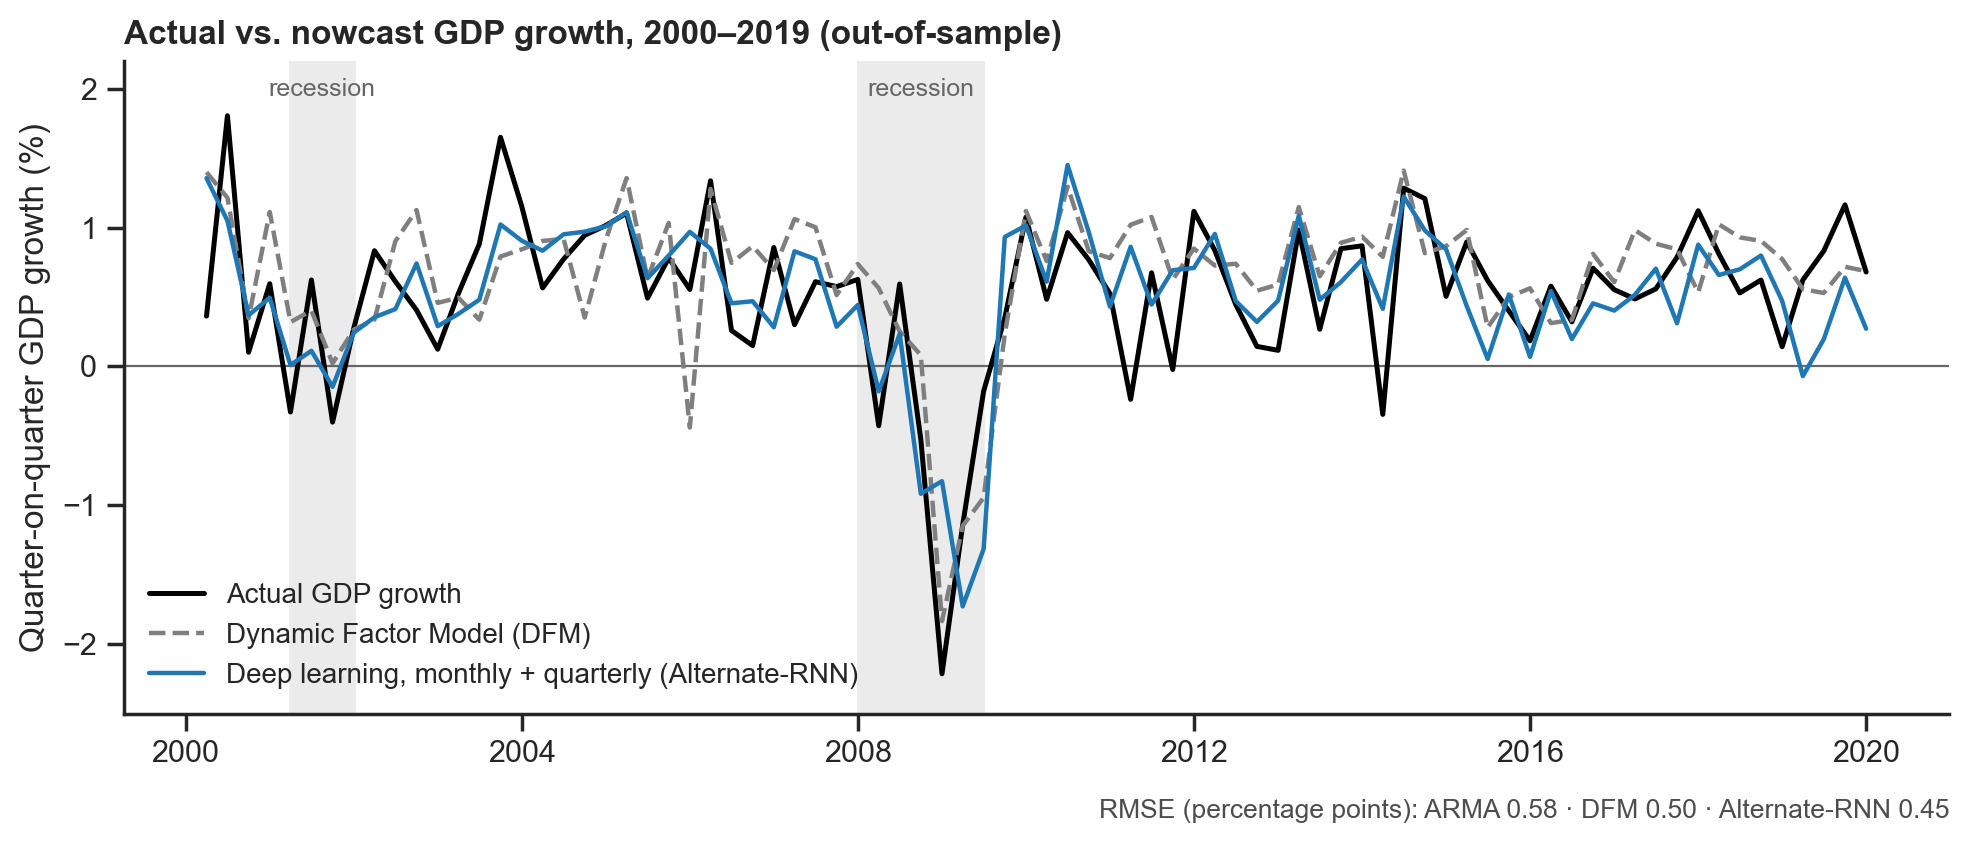
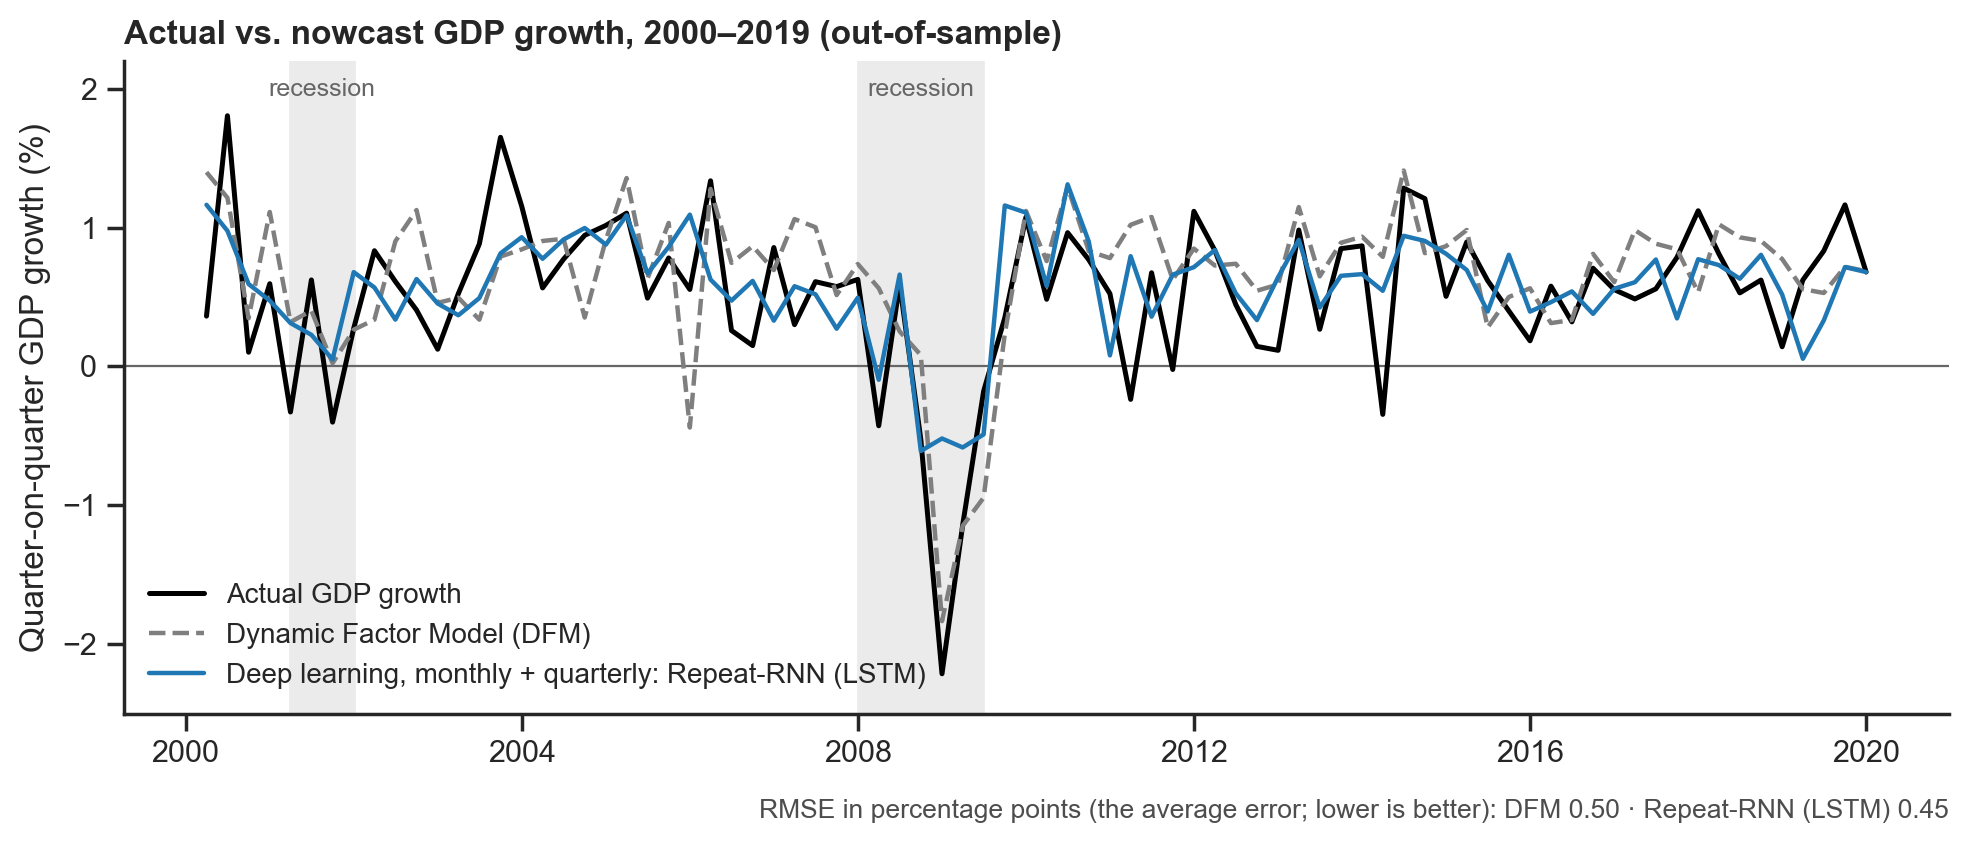
Thesis page: result 1 vs the DFM with the best 2000-2019 network, data slide wording, RMSE explained

diff --git a/en/projects/master-thesis-gdp-nowcasting.md b/en/projects/master-thesis-gdp-nowcasting.md
@@ -11,7 +11,7 @@ image: /assets/img/projects/scriptie_rmse_vergelijking_en.png
 abstract: "Gross Domestic Product (GDP) is published quarterly and with a delay. Monthly figures such as unemployment and inflation arrive much sooner. To improve the predictive power of neural networks, I built a new mixed-frequency model that integrates monthly figures to predict GDP growth of the current quarter before it ends. From 2000 to 2019 the Root Mean Squared Error (RMSE) of my best deep learning model is about 10% lower than that of a DFM: the type of model central banks use, which I applied in a simple form to the same data."
 # eerder: abstract_image: /assets/img/projects/scriptie_concept_en.svg  (concept-figuur, bestand blijft bewaard)
 abstract_image: /assets/img/projects/thesis_mpl_actual_vs_nowcast.png
-abstract_alt: "Line chart of actual and nowcast GDP growth per quarter, 2000–2019, for the DFM and Alternate-RNN; RMSE: ARMA 0.58, DFM 0.50, Alternate-RNN 0.45 percentage points"
+abstract_alt: "Line chart of actual and nowcast GDP growth per quarter, 2000–2019, for the DFM and Repeat-RNN (LSTM); RMSE (lower is better): DFM 0.50, Repeat-RNN (LSTM) 0.45 percentage points"
 course: MSc Data Science and Society, Tilburg University
 team: Individual research
 code: https://github.com/GKruidenier/GDP-nowcasting-thesis
@@ -26,9 +26,13 @@ tools: [Python, PyTorch, RNN, statsmodels, Dynamic Factor Models, ARMA]
 {% include slide.html kicker="Models" title="Three ways to combine month and quarter" text="Apart from ARMA, all models work with a selection of the same 238 monthly and quarterly indicators of the US economy (1960–2024). My networks (LSTM and GRU) have a memory and step through time. The difference is how monthly and quarterly figures come together." src="/assets/img/projects/scriptie_modellen_en.svg" alt="Six models. Benchmarks: the classic time-series model ARMA uses only the past of GDP, a simple version of the central banks' Dynamic Factor Model sums up the figures in a few trends, and a network on quarterly data averages the monthly figures first. My designs: repeat (one step per month, the quarterly figure is read along), two layers (a quarterly layer feeds a monthly layer) and alternate (quarterly and monthly network take turns with one shared memory)" full=true %}
 {% endcomment %}
 
-{% include slide.html kicker="Data" title="Many indicators, few observations" text="The dataset contains 238 US indicators: 121 monthly ones from FRED-MD and 117 quarterly ones from FRED-QD. GDP, however, is measured only once per quarter: 260 quarters from 1960 to 2024, of which 160 come before the first test year. With almost as many candidate features as observations, a model can learn the noise in the training data instead of real patterns (overfitting), and then predicts new quarters poorly. I therefore used Least Angle Regression (LARS) to keep the 10 to 20 most informative indicators, repeated on the training data each time the model is retrained. On the first training period (1960–1999), it mainly picked industrial production, capacity utilisation, employment and consumption (right-hand figure). The European Central Bank (ECB) nowcasting toolbox also recommends LARS ([Linzenich & Meunier, 2024](https://www.ecb.europa.eu/pub/pdf/scpwps/ecb.wp3004~3ce9d0d8ca.en.pdf)). The data exploration supports the mixed-frequency idea: as soon as monthly figures from the current quarter come in, they correlate more strongly with this quarter's GDP growth (left-hand figure: 0.35 with one month, against 0.19 with only the previous quarter's months)." src="/assets/img/projects/thesis_mpl_corr_monthly.png" alt="Three rows of dots, one dot per monthly indicator, showing its absolute correlation with this quarter's GDP growth. With only the previous quarter's months the mean is 0.19; including one month of this quarter it is 0.35, including two months 0.33, and many indicators then reach correlations of 0.6 to 0.8." src2="/assets/img/projects/thesis_mpl_lars_top.png" alt2="Bar chart of the 14 indicators LARS selected on the 1960–1999 training data, ranked by absolute coefficient. Industrial production and capacity utilisation in manufacturing lead, followed by employment in goods-producing industries, manufacturing output and real personal consumption; three of the 14 are quarterly indicators." full=true %}
+{% include slide.html kicker="Data" title="Many indicators, few observations" text="The dataset contains 238 US indicators: 121 monthly ones from FRED-MD and 117 quarterly ones from FRED-QD. GDP is measured quarterly: 260 quarters from 1960 to 2024, of which 160 come before the first test year (year 2000).
 
-{% include slide.html kicker="Result question 1" title="Deep learning forecasts better than the classic models" text="**Research question 1:** can deep learning nowcast GDP, and how does it perform against the classic models? From 2000 to 2019, five of my six networks that combine monthly and quarterly figures had an RMSE about 10% lower than the DFM, and over 20% lower than ARMA. The line chart shows Alternate-RNN, the most robust network (it also had the lowest RMSE when the COVID years are included); the box plot on the right shows how much better or worse each of my RNNs is than the DFM; the ringed dot is Alternate-RNN from the line chart." src="/assets/img/projects/thesis_mpl_actual_vs_nowcast.png" alt="Line chart of actual and estimated GDP growth per quarter, 2000–2019. Both models follow the big movements; deep learning is closest to actual growth on average, but dampens peaks and troughs somewhat. RMSE: ARMA 0.58, DFM 0.50, deep learning 0.45 percentage points." src2="/assets/img/projects/thesis_mpl_improvement_vs_dfm.png" alt2="Box plot of the percentage by which the RMSE is lower than the DFM's, 2000–2019. Five of my six mixed-frequency RNN variants are 8 to 11% better (median 10%), with Alternate-RNN (LSTM) as an outlier 21.5% worse. Alternate-RNN (GRU), the network in the line chart, is ringed at 10% better." side=true full=true %}
+With almost as many candidate features as observations, a model is prone to learn random noise in the training data instead of real patterns (overfitting). I therefore used Least Angle Regression (LARS), as recommended by the European Central Bank (ECB) nowcasting toolbox ([Linzenich & Meunier, 2024](https://www.ecb.europa.eu/pub/pdf/scpwps/ecb.wp3004~3ce9d0d8ca.en.pdf)), to keep the 10 to 20 most informative indicators. A few of the top indicators were industrial production, capacity utilisation, employment and consumption. Only a handful of indicators really matter: after the top 11, the coefficients quickly drop towards zero. Leaving most indicators out therefore loses little (right-hand figure).
+
+The data exploration also supported the mixed-frequency idea: monthly figures from the current quarter correlate more strongly with this quarter's GDP growth than those of the previous quarter (left-hand figure: 0.35 one month into the quarter, against 0.19 with only the previous quarter's months)." src="/assets/img/projects/thesis_mpl_corr_monthly.png" alt="Three rows of dots, one dot per monthly indicator, showing its absolute correlation with this quarter's GDP growth. With only the previous quarter's months the mean is 0.19; including one month of this quarter it is 0.35, including two months 0.33, and many indicators then reach correlations of 0.6 to 0.8." src2="/assets/img/projects/thesis_mpl_lars_top.png" alt2="Bar chart of the 14 indicators LARS selected on the 1960–1999 training data, ranked by absolute coefficient. Industrial production and capacity utilisation in manufacturing lead, followed by employment in goods-producing industries, manufacturing output and real personal consumption; three of the 14 are quarterly indicators." full=true %}
+
+{% include slide.html kicker="Result question 1" title="Deep learning nowcasts better than the DFM" text="**Research question 1:** can deep learning nowcast GDP, and how does it perform against the DFM? The error is measured as the RMSE, the average distance between nowcast and actual GDP growth: lower is better. From 2000 to 2019, five of my six networks that combine monthly and quarterly figures had an RMSE about 10% lower than the DFM. The line chart shows the best of them, Repeat-RNN (LSTM); the box plot on the right shows how much lower the RMSE of each of my RNNs is than the DFM, with the ringed dot being the network from the line chart." src="/assets/img/projects/thesis_mpl_actual_vs_nowcast.png" alt="Line chart of actual and nowcast GDP growth per quarter, 2000–2019, for the DFM and Repeat-RNN (LSTM). Both follow the big movements; the RNN is closest to actual growth on average. RMSE (lower is better): DFM 0.50, Repeat-RNN (LSTM) 0.45 percentage points." src2="/assets/img/projects/thesis_mpl_improvement_vs_dfm.png" alt2="Box plot of the percentage by which the RMSE of my six mixed-frequency RNN variants is lower than the DFM's, 2000–2019: five are 8 to 11% better (median 10%), Alternate-RNN (LSTM) is an outlier 21.5% worse. Repeat-RNN (LSTM), the network in the line chart, is ringed at 10.9% better." side=true full=true %}
 
 {% include slide.html kicker="Result question 2" title="Reading the monthly figures improves the estimate" text="**Research question 2:** does the estimate for the current quarter improve when the model also reads the monthly figures? A comparable network has a 4% lower RMSE when it reads the monthly figures as well as the quarterly ones; for example, it estimates the deep fall at the end of 2008 much better. Within the quarter, most models first got worse after the first monthly release; only Alternate-RNN improved every month. On the right, every RNN variant compared with the DFM: with monthly figures the median improvement rises from 5% to 10%. The ringed dots are the two networks in the line chart." src="/assets/img/projects/thesis_mpl_monthly_vs_quarterly.png" alt="Line chart of actual GDP growth and two deep learning networks, 2000–2019. The network with monthly and quarterly figures estimates the deep fall at the end of 2008 much better than the network on quarterly figures only. RMSE: 0.47 versus 0.45 percentage points." src2="/assets/img/projects/thesis_mpl_improvement_q2.png" alt2="Box plot of how much lower the RMSE of each RNN variant is than the DFM's, 2000–2019. The six mixed-frequency variants are a median 10% better (Alternate-RNN (LSTM) is an outlier, 21.5% worse); the two quarterly variants a median 5% better. Alternate-RNN (GRU) and Quarterly-RNN (GRU), the two networks in the line chart, are ringed." side=true full=true %}
 
